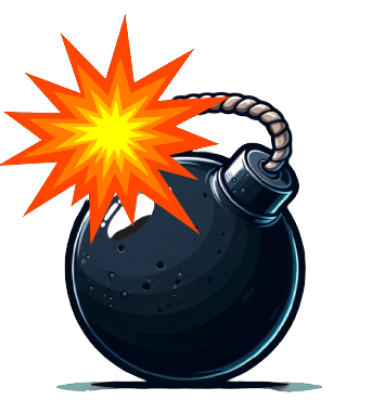
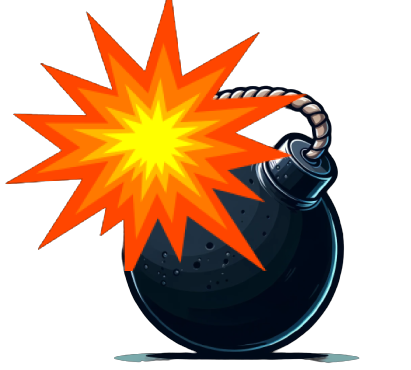
Make the image of the bomb change depending on the number of days that have passed.

diff --git a/resources/js/bomb.js b/resources/js/bomb.js
@@ -1,0 +1,30 @@
+document.addEventListener('DOMContentLoaded', function() {
+    // この関数は、信頼スコアに基づいて画像の表示を更新します
+    function updateImages(trustScore, bombElement, ignitionElement, explosionElement) {
+        if (trustScore <= 50 && trustScore > 0) {
+            bombElement.classList.add('hidden');
+            ignitionElement.classList.remove('hidden');
+            explosionElement.classList.add('hidden');
+        } else if (trustScore === 0) {
+            bombElement.classList.add('hidden');
+            ignitionElement.classList.add('hidden');
+            explosionElement.classList.remove('hidden');
+        } else {
+            bombElement.classList.remove('hidden');
+            ignitionElement.classList.add('hidden');
+            explosionElement.classList.add('hidden');
+        }
+    }
+
+    // 信頼スコアと対応する画像を含むすべての要素を選択します
+    const trustScoreElements = document.querySelectorAll('[data-trust-score]');
+
+    trustScoreElements.forEach((element) => {
+        const trustScore = parseInt(element.getAttribute('data-trust-score'));
+        const bombElement = element.querySelector('#js-bomb');
+        const ignitionElement = element.querySelector('#js-ignition');
+        const explosionElement = element.querySelector('#js-exprosion');
+
+        updateImages(trustScore, bombElement, ignitionElement, explosionElement);
+    });
+});

diff --git a/resources/js/app.js b/resources/js/app.js
@@ -1,5 +1,6 @@
 import './bootstrap';
 import './search';
+import './bomb.js';
 // "js-borrow-delete"というIDを持つ要素が存在するかどうかをチェック
 if (document.getElementById("js-borrow-delete")) {
     // 条件が真の場合、confirmdelete.jsを動的にインポート

diff --git a/resources/views/index.blade.php b/resources/views/index.blade.php
@@ -27,7 +27,7 @@
                                     <th scope="col" class="text-lg font-semibold text-gray-900 px-6 py-4 text-left">
                                         経過日数
                                     </th>
-                                    <th scope="col" class="text-lg font-semibold text-gray-900 px-6 py-4 text-left">
+                                    <th scope="col" class="text-lg font-semibold text-gray-900 px-10 py-4 text-left">
                                         信頼度
                                     </th>
                                     <th scope="col" class="text-lg font-semibold text-gray-900 px-2 py-4 text-left">
@@ -56,10 +56,10 @@
                                         <td class="text-sm text-gray-900 font-light px-6 py-4 whitespace-nowrap">
                                             {{ $borrow->days_passed }}
                                         </td>
-                                        <td class="text-sm text-gray-900 font-light px-6 py-4 whitespace-nowrap">
-                                            {{ $borrow->trust_score }}
-                                            <img src="../../images/bomb2.png" alt="爆弾" class="w-16" id="js-bomb">
-                                            <img src="../../images/ignition.png" alt="点火" class="w-16 mb-4 hidden" id="js-ignition">
+                                        {{-- {{ $borrow->trust_score }} --}}
+                                        <td class="text-sm text-gray-900 font-light px-6 py-4 whitespace-nowrap" data-trust-score="{{ $borrow->trust_score }}">
+                                            <img src="../../images/bomb2.png" alt="爆弾" class="w-16 ml-4" id="js-bomb">
+                                            <img src="../../images/ignition.png" alt="点火" class="w-20 ml-1 hidden" id="js-ignition">
                                             <img src="../../images/exprosion.png" alt="爆発" class="w-24 hidden" id="js-exprosion">
                                         </td>
                                         <td class="text-sm text-gray-900 font-light py-4 whitespace-wrap">

diff --git a/app/Models/Borrow.php b/app/Models/Borrow.php
@@ -21,7 +21,7 @@ class Borrow extends Model
         'borrowed_at' => 'date',
     ];
 
-    public function friend() 
+    public function friend()
     {
         return $this->belongsTo(Friend::class, 'friend_id');
     }
